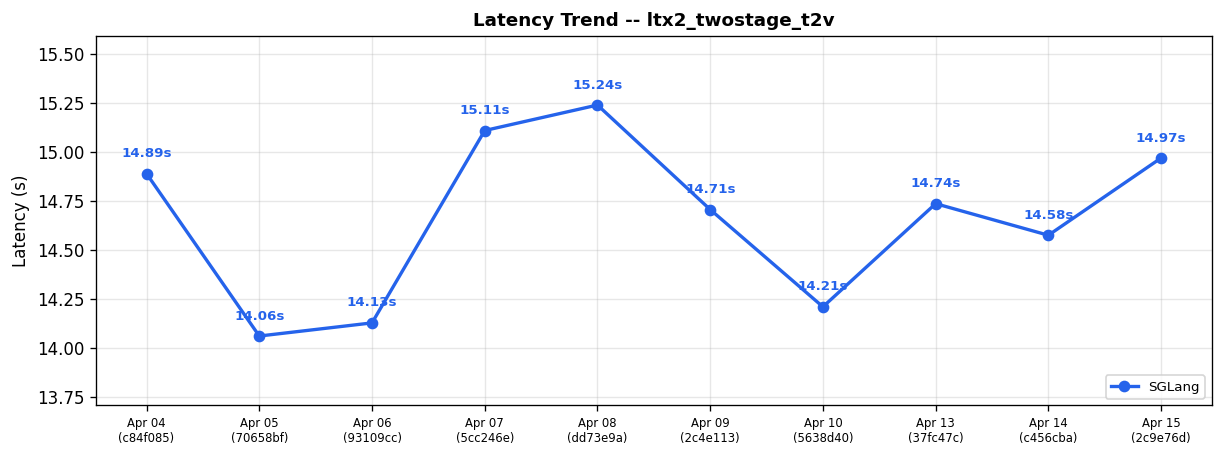
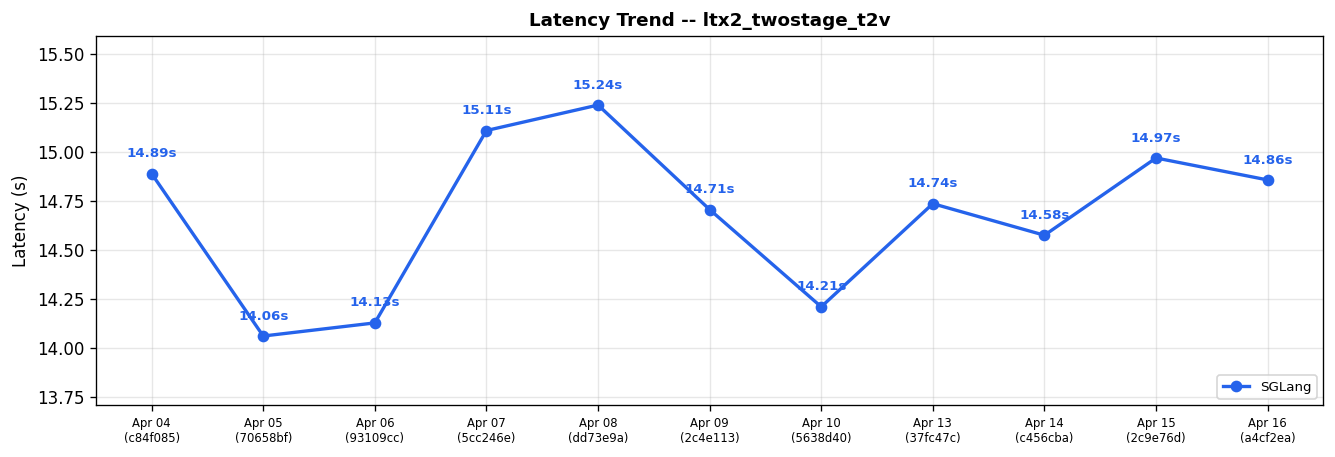
Diffusion comparison results for run 24486059047 (#569)

diff --git a/diffusion-comparisons/dashboard.md b/diffusion-comparisons/dashboard.md
@@ -1,21 +1,27 @@
 # Diffusion Cross-Framework Performance Dashboard
 
-*Generated: Apr 15 | Commit: `2c9e76d`*
+*Generated: Apr 16 | Commit: `a4cf2ea`*
+
+> [!WARNING]
+> **Performance Regression Detected**
+>
+> - **qwen_image_2512_t2i_1024** (sglang): 13.14s -> 14.08s (+7.2%)
+
 
 ## Cross-Framework Performance Comparison
 
 | Model | Risk | sglang (s) |
 |-------|------|---------|
-| FLUX.1-dev | ✅ | **6.69** |
-| FLUX.2-dev | ✅ | **22.78** |
-| Qwen-Image-2512 | ✅ | **13.14** |
-| Qwen-Image-Edit-2511 | ✅ | **23.82** |
+| FLUX.1-dev | ✅ | **6.70** |
+| FLUX.2-dev | ✅ | **22.90** |
+| Qwen-Image-2512 | ⚠ | **14.08** |
+| Qwen-Image-Edit-2511 | ✅ | **23.93** |
 | Z-Image-Turbo | ✅ | **0.89** |
-| Wan2.2-T2V-A14B-Diffusers | ✅ | **209.49** |
-| Wan2.2-TI2V-5B-Diffusers | ✅ | **63.18** |
-| LTX-2 | ✅ | **14.97** |
-| LTX-2.3 | ❌ | N/A |
-| Wan2.2-I2V-A14B-Diffusers | ✅ | **206.58** |
+| Wan2.2-T2V-A14B-Diffusers | ✅ | **210.73** |
+| Wan2.2-TI2V-5B-Diffusers | ✅ | **62.15** |
+| LTX-2 | ✅ | **14.86** |
+| LTX-2.3 | ✅ | **59.20** |
+| Wan2.2-I2V-A14B-Diffusers | ✅ | **206.60** |
 
 ### Latency Trend: flux1_dev_t2i_1024
 
@@ -57,6 +63,11 @@
 ![Latency Trend ltx2_twostage_t2v](https://raw.githubusercontent.com/sglang-bot/sglang-ci-data/main/diffusion-comparisons/charts/latency_ltx2_twostage_t2v.png)
 
 
+### Latency Trend: ltx2.3_twostage_ti2v_2gpus
+
+![Latency Trend ltx2.3_twostage_ti2v_2gpus](https://raw.githubusercontent.com/sglang-bot/sglang-ci-data/main/diffusion-comparisons/charts/latency_ltx2.3_twostage_ti2v_2gpus.png)
+
+
 ### Latency Trend: wan22_i2v_a14b_720p
 
 ![Latency Trend wan22_i2v_a14b_720p](https://raw.githubusercontent.com/sglang-bot/sglang-ci-data/main/diffusion-comparisons/charts/latency_wan22_i2v_a14b_720p.png)
@@ -66,6 +77,7 @@
 
 | Date | Commit | flux1_dev_t2i_1024 (s) | flux2_dev_t2i_1024 (s) | qwen_image_2512_t2i_1024 (s) | qwen_image_edit_2511 (s) | zimage_turbo_t2i_1024 (s) | wan22_t2v_a14b_720p (s) | wan22_ti2v_5b_720p (s) | ltx2_twostage_t2v (s) | ltx2.3_twostage_ti2v_2gpus (s) | wan22_i2v_a14b_720p (s) | Trend |
 |------|--------|---------|---------|---------|---------|---------|---------|---------|---------|---------|---------|-------|
+| Apr 16 | `a4cf2ea` | 6.70 | 22.90 | 14.08 | 23.93 | 0.89 | 210.73 | 62.15 | 14.86 | 59.20 | 206.60 | :left_right_arrow:  :left_right_arrow:  :arrow_up:  :left_right_arrow:  :left_right_arrow:  :left_right_arrow:  :left_right_arrow:  :left_right_arrow:   :left_right_arrow: |
 | Apr 15 | `2c9e76d` | 6.69 | 22.78 | 13.14 | 23.82 | 0.89 | 209.49 | 63.18 | 14.97 | N/A | 206.58 | :left_right_arrow:  :left_right_arrow:  :left_right_arrow:  :left_right_arrow:  :left_right_arrow:  :left_right_arrow:  :left_right_arrow:  :arrow_up:   :left_right_arrow: |
 | Apr 14 | `c456cba` | 6.70 | 22.85 | 13.17 | 23.83 | 0.89 | 210.52 | 62.16 | 14.58 | N/A | 206.54 | :left_right_arrow:  :left_right_arrow:  :left_right_arrow:  :left_right_arrow:  :left_right_arrow:  :left_right_arrow:  :left_right_arrow:  :left_right_arrow:   :left_right_arrow: |
 | Apr 13 | `37fc47c` | 6.60 | 22.61 | 12.99 | 23.60 | 0.88 | 209.76 | 61.17 | 14.74 | N/A | 207.63 | :left_right_arrow:  :left_right_arrow:  :left_right_arrow:  :left_right_arrow:  :left_right_arrow:  :left_right_arrow:  :left_right_arrow:  :arrow_up:   :left_right_arrow: |
@@ -79,14 +91,13 @@
 | Apr 04 | `c84f085` | 6.86 | 22.87 | 13.16 | 23.95 | 0.93 | 210.88 | 62.21 | 14.89 | N/A | 206.55 | :arrow_up:  :left_right_arrow:  :arrow_down:  :arrow_down:  :left_right_arrow:  :arrow_up:  :left_right_arrow:    :arrow_up: |
 | Apr 04 | `95cdbce` | 6.68 | 22.80 | 13.51 | 29.41 | 0.93 | 16.14 | 63.19 | N/A | N/A | 21.07 | :left_right_arrow:  :left_right_arrow:  :left_right_arrow:  :left_right_arrow:  :left_right_arrow:  :left_right_arrow:  :left_right_arrow:    :left_right_arrow: |
 | Apr 03 | `90e8680` | 6.72 | 22.89 | 13.57 | 29.56 | 0.93 | 16.09 | 62.17 | N/A | N/A | 21.06 | :left_right_arrow:  :left_right_arrow:  :left_right_arrow:  :left_right_arrow:  :left_right_arrow:  :arrow_down:  :left_right_arrow:    :left_right_arrow: |
-| Apr 03 | `29d8e95` | 6.69 | 22.88 | 13.55 | 29.62 | 0.93 | 16.57 | 62.18 | N/A | N/A | 21.07 | :left_right_arrow:  :left_right_arrow:  :arrow_up:  :left_right_arrow:  :left_right_arrow:  :arrow_up:  :left_right_arrow:    :arrow_down: |
-| Apr 02 | `d7256eb` | 6.70 | 22.87 | 13.18 | 29.59 | 0.93 | 16.11 | 62.20 | N/A | N/A | 22.07 | -- |
+| Apr 03 | `29d8e95` | 6.69 | 22.88 | 13.55 | 29.62 | 0.93 | 16.57 | 62.18 | N/A | N/A | 21.07 | -- |
 
 > [!CAUTION]
 > **Action Required — Performance Alert**
 >
 > The following cases need attention:
-> - ltx2.3_twostage_ti2v_2gpus: SGLang latency is N/A (broken)
+> - qwen_image_2512_t2i_1024: SGLang regression +7.5% vs 3-run avg (14.08s vs 13.10s)
 
 
 ---
